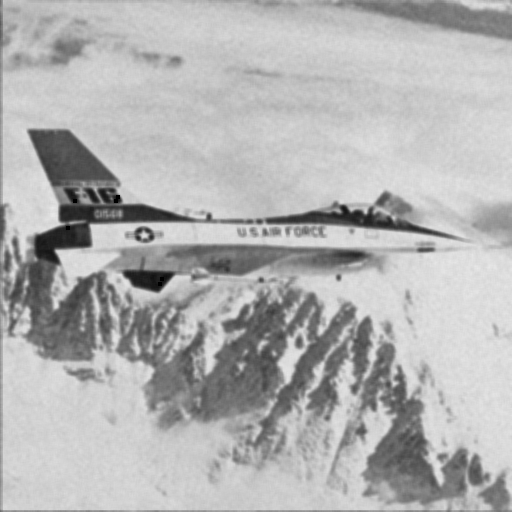
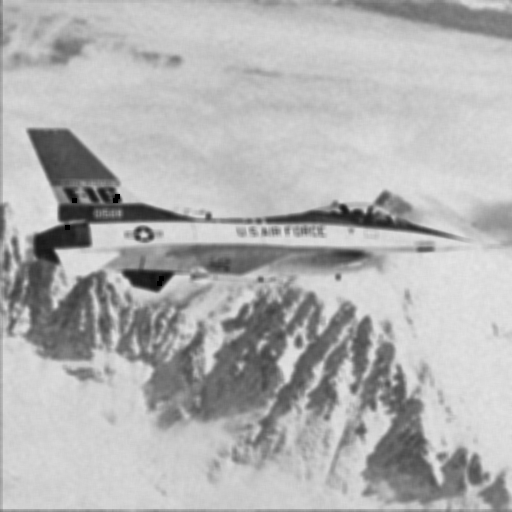
update

diff --git a/Problem4.py b/Problem4.py
@@ -3,6 +3,8 @@ from Helping import *
 ORIGINAL_IMAGE_PATH = 'res/Jet.gif'
 NOISY_IMAGE_PATH = 'res/JetNoisy.gif'
 
+mask_size = 5
+
 
 def evaluate_filter(filtered_image, filter_name):
     show_image_and_wait(filtered_image, filter_name)
@@ -13,7 +15,7 @@ def evaluate_filter(filtered_image, filter_name):
 def arithmetic_mean_filter_image(image):
     arithmetic_mean_filter = np.vectorize(arithmetic_mean_filter_pixel, excluded=[0])
     y, x = np.indices(noisy_image.shape)
-    filtered_image = arithmetic_mean_filter(image, y, x, 5)
+    filtered_image = arithmetic_mean_filter(image, y, x, mask_size)
     return filtered_image
 
 
@@ -28,7 +30,7 @@ def arithmetic_mean_filter_pixel(image, y, x, segment_size):
 def geometric_mean_filter_image(image):
     arithmetic_mean_filter = np.vectorize(geometric_mean_filter_pixel, excluded=[0])
     y, x = np.indices(noisy_image.shape)
-    filtered_image = arithmetic_mean_filter(image, y, x, 5)
+    filtered_image = arithmetic_mean_filter(image, y, x, mask_size)
     return filtered_image
 
 
@@ -44,7 +46,7 @@ def geometric_mean_filter_pixel(image, y, x, segment_size):
 def adaptive_filter_image(image, noise_variance):
     arithmetic_mean_filter = np.vectorize(adaptive_filter_pixel, excluded=[0])
     y, x = np.indices(noisy_image.shape)
-    filtered_image = arithmetic_mean_filter(image, y, x, 5, noise_variance)
+    filtered_image = arithmetic_mean_filter(image, y, x, mask_size, noise_variance)
     return filtered_image
 
 
@@ -63,10 +65,10 @@ def get_segment(image, y, x, segment_size):
     sze = segment_size // 2
 
     y_start = max(y - sze, 0)
-    y_end = min(y + sze, height)
+    y_end = min(y + sze + 1, height)
 
     x_start = max(x - sze, 0)
-    x_end = min(x + sze, width)
+    x_end = min(x + sze + 1, width)
 
     return image[y_start:y_end, x_start:x_end]
 

diff --git a/Problem1.py b/Problem1.py
@@ -1,22 +1,27 @@
+from matplotlib import pyplot as plt
+
 from Helping import *
 
-# original_image = read_GIF('res/HouseNoisy.gif')
-original_image = read_GIF('res/HouseNoisy.gif').astype('uint8')
+original_image = read_GIF('res/HouseNoisy.gif')
 
-consistent_intensity_region = original_image[0:110, 350:505]
+consistent_intensity_region = original_image[2:96, 383:508]
 
 show_image_and_wait(consistent_intensity_region)
+plt.hist(consistent_intensity_region.ravel(), 256, [0, 256])
+plt.show()
 
-print(f"mean before any mathematical computations -- > {np.mean(consistent_intensity_region)}")
-print(f"var of the noisy image -- > {np.var(consistent_intensity_region)}")
-print(f"std of the noisy image --> {np.std(consistent_intensity_region)}")
+consistent_intensity_region_mean = np.mean(consistent_intensity_region)
 
-smoothed_region = consistent_intensity_region.copy()
+print(f"mean before any mathematical computations = {consistent_intensity_region_mean}")
+print(f"var of the noisy image = {np.var(consistent_intensity_region)}")
+print(f"std of the noisy image = {np.std(consistent_intensity_region)}")
 
-for i in range(1000):
+smoothed_region = consistent_intensity_region
+
+for i in range(10000):
     smoothed_region = cv2.blur(smoothed_region, (50, 50))
 
-print(f"The mean of excessive smoothed image -- > {np.mean(smoothed_region)}")
-print(f"Mean of the noise -- > {np.mean(consistent_intensity_region) - np.mean(smoothed_region)}")
+print(f"The mean of excessive smoothed image = {np.mean(smoothed_region)}")
+print(f"Mean of the noise = {consistent_intensity_region_mean - np.mean(smoothed_region)}")
 
 show_image_and_wait(smoothed_region, 'smoothed image')

diff --git a/Problem3.py b/Problem3.py
@@ -26,13 +26,13 @@ def adjust_image_to_BGR(image):
 def replace_color_with(image, center, radius, color):
     distance, distance2 = find_color_distance(image, center)
 
-    color_replaced_image = image - center
-    color_replaced_image += color
-    color_replaced_image += distance2
+    # color_replaced_image = image - center
+    # color_replaced_image += color
+    # color_replaced_image += distance2
+    #
+    # color_replaced_image = np.clip(color_replaced_image, 0, 1)
 
-    color_replaced_image = np.clip(color_replaced_image, 0, 1)
-
-    # color_replaced_image = np.full_like(image, color)
+    color_replaced_image = np.full_like(image, color)
 
     return np.where(distance <= radius, color_replaced_image, image)
 
@@ -46,13 +46,13 @@ center1 = [179 / 255, 40 / 255, 50 / 255]
 radius1 = 0.06
 sliced_image = replace_color_with(original_image, center1, radius1, replace_color)
 
-center2 = [225 / 255, 89 / 255, 103 / 255]
-radius2 = 10 / 255
-sliced_image = replace_color_with(sliced_image, center2, radius2, replace_color)
-
-center3 = [100 / 255, 20 / 255, 30 / 255]
-radius3 = 3.5 / 255
-sliced_image = replace_color_with(sliced_image, center3, radius3, replace_color)
+# center2 = [225 / 255, 89 / 255, 103 / 255]
+# radius2 = 10 / 255
+# sliced_image = replace_color_with(sliced_image, center2, radius2, replace_color)
+#
+# center3 = [100 / 255, 20 / 255, 30 / 255]
+# radius3 = 3.5 / 255
+# sliced_image = replace_color_with(sliced_image, center3, radius3, replace_color)
 
 show_image_and_wait(adjust_image_to_BGR(sliced_image))
 cv2.imwrite('out/sliced.png', adjust_image_to_BGR(sliced_image))
